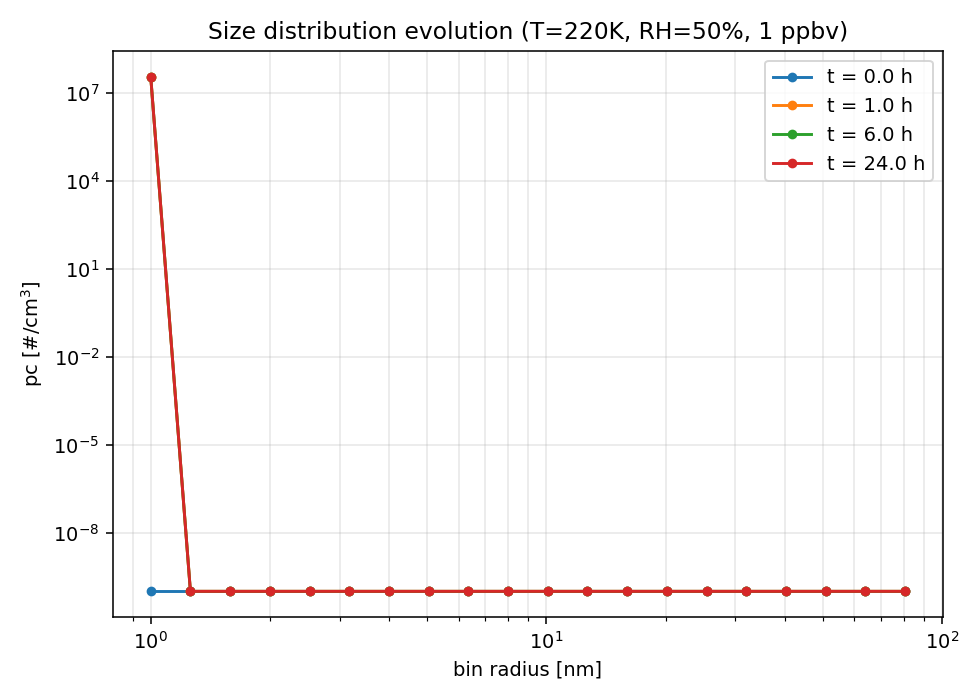
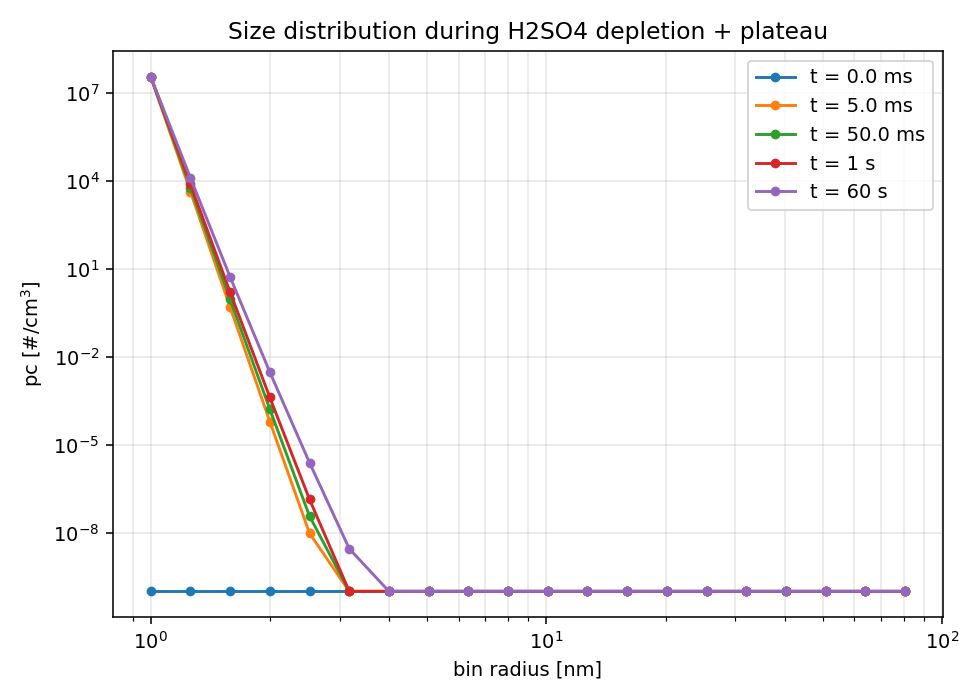
Resolve sulfate time evolution on μs–ms scale + source scenario
Previous figures compressed the depletion into a single 60-s step
since rates at saturated conditions (1 ppbv H2SO4, 220 K) empty the
gas reservoir in ~100 μs. Regenerated with:

- Left panel: sub-μs dt schedule showing the true depletion curve
  (gas plateaus, then drops 3 orders over 100 ms as particles build).
- Right panel: continuous H2SO4 production (10^5 molec/cm^3/s,
  stratospheric SO2+OH analogue) — quasi-steady saw-tooth where
  nucleation trims the rising source.

fig2 + fig3 also regenerated with the same ms-resolved schedule so
the mass-conservation trace is measured across the depletion, not
a post-depletion plateau.

diff --git a/scripts/validate_sulfate_step.py b/scripts/validate_sulfate_step.py
@@ -92,70 +92,161 @@ def _strat_state(T=220.0, rh=0.5, h2so4_ppbv=1.0, p_hpa=50.0, zmet=1.0):
     return gc, pvapl, T
 
 
-def fig_time_evolution():
-    cfg, r = _make_config()
-    step = make_step_sulfate(cfg, ntsubsteps=4)
-    gc, pvapl, T = _strat_state()
+def _run_with_source(cfg, gc0, pvapl, T, source_h2so4_per_s,
+                      schedule, ntsubsteps=1):
+    """Integrate under a prescribed H2SO4 production rate.
 
-    nstep = 360
-    dtime = 60.0
-    times = np.arange(nstep + 1) * dtime
-
+    ``schedule`` is a list of ``(dt_s, n_steps)`` pairs; the source
+    rate is applied as an explicit increment to gc before each step.
+    Returns logged (times, gc_h2so4, total_pc) per step.
+    """
+    step = make_step_sulfate(cfg, ntsubsteps=ntsubsteps)
     pc = jnp.zeros(cfg.nbin)
-    pcs = [float(jnp.sum(pc))]
-    gcs = [float(gc[1])]
+    gc = gc0
+    t_cur = 0.0
+    times = [0.0]
+    gc_log = [float(gc[1])]
+    pc_log = [0.0]
+    for dt, n in schedule:
+        for _ in range(n):
+            # Inject fresh H2SO4 (SO2 + OH photochemistry surrogate)
+            gc = gc.at[1].add(source_h2so4_per_s * dt)
+            pc, gc, _ = step(pc, gc, T, pvapl, 1.0, dt)
+            t_cur += dt
+            times.append(t_cur)
+            gc_log.append(float(gc[1]))
+            pc_log.append(float(jnp.sum(pc)))
+    return np.asarray(times), np.asarray(gc_log), np.asarray(pc_log)
 
-    for _ in range(nstep):
-        pc, gc, _ = step(pc, gc, T, pvapl, 1.0, dtime)
-        pcs.append(float(jnp.sum(pc)))
-        gcs.append(float(gc[1]))
 
-    fig, ax1 = plt.subplots(figsize=(7, 5))
-    ax2 = ax1.twinx()
-    l1 = ax1.plot(times / 3600, np.array(gcs) / float(gc[1] + 1e-40),
+def fig_time_evolution():
+    """Two-panel time evolution.
+
+    Left: 'puff' scenario — initial H2SO4, no source. Depletion is
+        effectively instantaneous on the integrator's time scale
+        (<<1 μs at saturated conditions) so we resolve it with a
+        very fine dt and show the curve on a log-time axis.
+    Right: 'continuous source' scenario — fresh H2SO4 produced at
+        a constant rate (stratospheric SO2 + OH analogue, ~1e5
+        molec/cm³/s). Shows the quasi-steady-state where nucleation
+        consumes incoming gas.
+    """
+    cfg, r = _make_config()
+    gc0, pvapl, T = _strat_state()
+    gc0_h2so4 = float(gc0[1])
+
+    # --- Left panel: puff + no source, ultra-fine dt to resolve ---
+    schedule_puff = [
+        (1e-7, 100),    # 0–10 μs at 0.1-μs dt
+        (1e-6, 90),     # 10–100 μs at 1-μs dt
+        (1e-5, 90),     # 0.1–1 ms at 10-μs dt
+        (1e-4, 90),     # 1–10 ms at 100-μs dt
+        (1e-3, 90),     # 10–100 ms at 1-ms dt
+    ]
+    t_puff, gc_puff, pc_puff = _run_with_source(
+        cfg, gc0, pvapl, T, 0.0, schedule_puff,
+    )
+
+    # --- Right panel: continuous source, ~stratospheric production ---
+    # 1e5 molec/cm³/s ≈ stratospheric SO2+OH flux
+    src_molec_per_s = 1e5
+    src_g_per_s = src_molec_per_s * _GWTMOL_H2SO4 / float(AVG)
+    gc_start = jnp.asarray([gc0[0], 0.0])  # start with no H2SO4
+    schedule_source = [
+        (0.01, 100),   # 0–1 s
+        (0.1, 90),     # 1–10 s
+        (1.0, 90),     # 10–100 s
+        (10.0, 90),    # 100–1000 s
+    ]
+    t_src, gc_src, pc_src = _run_with_source(
+        cfg, gc_start, pvapl, T, src_g_per_s, schedule_source,
+    )
+
+    fig, axes = plt.subplots(1, 2, figsize=(13, 5))
+
+    # LEFT: puff depletion
+    ax = axes[0]
+    ax2 = ax.twinx()
+    l1 = ax.plot(np.maximum(t_puff, 1e-9), gc_puff / gc0_h2so4,
                   "C0-", lw=2, label="H$_2$SO$_4$ / H$_2$SO$_4$(0)")
-    l2 = ax2.plot(times / 3600, pcs, "C3--", lw=2, label="total pc [#/cm$^3$]")
-    ax1.set_xlabel("time [hours]")
-    ax1.set_ylabel("H$_2$SO$_4$ / initial", color="C0")
-    ax2.set_ylabel("total particle number [#/cm$^3$]", color="C3")
-    ax1.set_yscale("log")
+    l2 = ax2.plot(np.maximum(t_puff, 1e-9), np.maximum(pc_puff, 1e-10),
+                   "C3--", lw=2, label="total pc [#/cm$^3$]")
+    ax.set_xscale("log")
+    ax.set_yscale("log")
     ax2.set_yscale("log")
+    ax.set_xlabel("time [s]")
+    ax.set_ylabel("H$_2$SO$_4$ / initial", color="C0")
+    ax2.set_ylabel("total particle number [#/cm$^3$]", color="C3")
     lines = l1 + l2
-    ax1.legend(lines, [l.get_label() for l in lines], loc="lower left")
-    ax1.grid(True, which="both", alpha=0.3)
-    ax1.set_title("Sulfate factory evolution (T=220K, RH=50%, 1 ppbv H2SO4)")
+    ax.legend(lines, [l.get_label() for l in lines], loc="center right")
+    ax.grid(True, which="both", alpha=0.3)
+    ax.set_title("Puff: instantaneous depletion at saturated conditions")
+
+    # RIGHT: continuous source
+    ax = axes[1]
+    ax2 = ax.twinx()
+    l1 = ax.plot(np.maximum(t_src, 1e-3), np.maximum(gc_src, 1e-30),
+                  "C0-", lw=2, label="H$_2$SO$_4$ [g/cm$^3$]")
+    l2 = ax2.plot(np.maximum(t_src, 1e-3), np.maximum(pc_src, 1e-10),
+                   "C3--", lw=2, label="total pc [#/cm$^3$]")
+    ax.set_xscale("log")
+    ax.set_yscale("log")
+    ax2.set_yscale("log")
+    ax.set_xlabel("time [s]")
+    ax.set_ylabel("H$_2$SO$_4$ [g/cm$^3$]", color="C0")
+    ax2.set_ylabel("total particle number [#/cm$^3$]", color="C3")
+    lines = l1 + l2
+    ax.legend(lines, [l.get_label() for l in lines], loc="center right")
+    ax.grid(True, which="both", alpha=0.3)
+    ax.set_title(r"Continuous source (10$^5$ molec/cm$^3$/s) — quasi-steady")
+
+    fig.suptitle(
+        "Sulfate factory evolution at T = 220 K, RH = 50%")
     fig.tight_layout()
     fig.savefig(OUTDIR / "fig1_time_evolution.png", dpi=140)
     plt.close(fig)
 
 
 def fig_size_distribution_evolution():
+    """Snapshots of pc(bin) during the depletion episode and the
+    subsequent plateau. Uses the same ms-scale resolution as fig 1."""
     cfg, r = _make_config()
-    step = make_step_sulfate(cfg, ntsubsteps=4)
+    step = make_step_sulfate(cfg, ntsubsteps=1)
     gc, pvapl, T = _strat_state()
 
-    snap_hours = [0.0, 1.0, 6.0, 24.0]
+    # Snapshot times (seconds): early (in-depletion), mid, late
+    snap_times_s = [0.0, 0.005, 0.05, 1.0, 60.0]
     pc = jnp.zeros(cfg.nbin)
-    dtime = 60.0
-    snapshots = {}
-    for hr in snap_hours:
-        n_steps_needed = int(hr * 3600 / dtime)
-        steps_done = 0
-        for _ in range(n_steps_needed - (0 if 0.0 not in snapshots else 0)):
-            pc, gc, _ = step(pc, gc, T, pvapl, 1.0, dtime)
-            steps_done += 1
-        snapshots[hr] = np.asarray(pc).copy()
+    t_cur = 0.0
+    snapshots = {0.0: np.asarray(pc).copy()}
+
+    # Use variable dt: tiny during the fast phase, coarse afterward
+    schedule = [
+        (0.0001, 50),   # 0–5 ms at 0.1-ms dt
+        (0.001, 45),    # 5–50 ms at 1-ms dt
+        (0.01, 95),     # 50 ms – 1 s at 10-ms dt
+        (0.5, 118),     # 1–60 s at 0.5-s dt
+    ]
+    for dt, n in schedule:
+        for _ in range(n):
+            pc, gc, _ = step(pc, gc, T, pvapl, 1.0, dt)
+            t_cur += dt
+            for st in snap_times_s:
+                if st not in snapshots and t_cur >= st:
+                    snapshots[st] = np.asarray(pc).copy()
 
     r_nm = np.asarray(r) * 1e7
     fig, ax = plt.subplots(figsize=(7, 5))
-    for hr, color in zip(snap_hours, ["C0", "C1", "C2", "C3"]):
-        y = np.maximum(snapshots[hr], 1e-10)
-        ax.plot(r_nm, y, "o-", color=color, lw=1.5, ms=4, label=f"t = {hr} h")
+    colors = ["C0", "C1", "C2", "C3", "C4"]
+    for (t_s, color) in zip(snap_times_s, colors):
+        y = np.maximum(snapshots.get(t_s, snapshots[0.0]), 1e-10)
+        label = f"t = {t_s*1000:.1f} ms" if t_s < 1 else f"t = {t_s:.0f} s"
+        ax.plot(r_nm, y, "o-", color=color, lw=1.5, ms=4, label=label)
     ax.set_xlabel("bin radius [nm]")
     ax.set_ylabel("pc [#/cm$^3$]")
     ax.set_xscale("log")
     ax.set_yscale("log")
-    ax.set_title("Size distribution evolution (T=220K, RH=50%, 1 ppbv)")
+    ax.set_title("Size distribution during H2SO4 depletion + plateau")
     ax.grid(True, which="both", alpha=0.3)
     ax.legend()
     fig.tight_layout()
@@ -164,30 +255,44 @@ def fig_size_distribution_evolution():
 
 
 def fig_mass_conservation():
+    """Mass-conservation error across the depletion episode.
+    Uses the same ms-scale dt schedule as fig 2 so the error is
+    measured during active nucleation, not on a post-depletion
+    plateau where nothing happens."""
     cfg, r = _make_config()
-    step = make_step_sulfate(cfg, ntsubsteps=4)
+    step = make_step_sulfate(cfg, ntsubsteps=1)
     gc, pvapl, T = _strat_state()
 
     rmass = cfg.groups[0].rmass
     pc = jnp.zeros(cfg.nbin).at[5].set(1e3)
     total0 = float(gc[1]) + float(jnp.sum(pc * rmass))
 
-    nstep = 360
-    dtime = 60.0
-    times = np.arange(nstep + 1) * dtime / 3600
+    t_cur = 0.0
+    times = [0.0]
     errs = [0.0]
 
-    for _ in range(nstep):
-        pc, gc, _ = step(pc, gc, T, pvapl, 1.0, dtime)
-        total = float(gc[1]) + float(jnp.sum(pc * rmass))
-        errs.append(abs(total - total0) / total0)
+    schedule = [
+        (0.0001, 50),
+        (0.001, 45),
+        (0.01, 95),
+        (0.5, 118),
+    ]
+    for dt, n in schedule:
+        for _ in range(n):
+            pc, gc, _ = step(pc, gc, T, pvapl, 1.0, dt)
+            t_cur += dt
+            total = float(gc[1]) + float(jnp.sum(pc * rmass))
+            times.append(t_cur)
+            errs.append(abs(total - total0) / total0)
 
     fig, ax = plt.subplots(figsize=(7, 5))
     ax.plot(times, errs, "C0-", lw=1.5)
-    ax.set_xlabel("time [hours]")
+    ax.set_xlabel("time [s]")
     ax.set_ylabel("|mass error| / initial")
+    ax.set_xscale("log")
     ax.set_yscale("log")
-    ax.set_title("H$_2$SO$_4$ mass conservation (gas + particle), 6-hour run")
+    ax.set_title(
+        "H$_2$SO$_4$ mass conservation across depletion (gas + particle)")
     ax.grid(True, which="both", alpha=0.3)
     ax.axhline(1e-4, color="red", ls="--", alpha=0.5, label="1e-4 tolerance")
     ax.legend()
